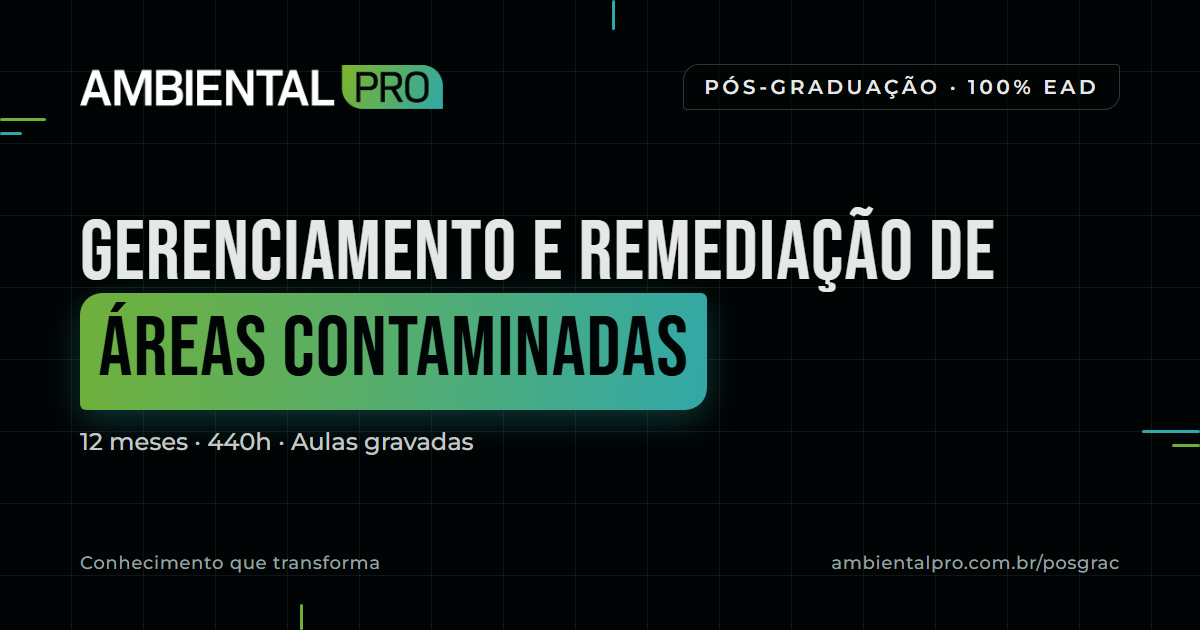
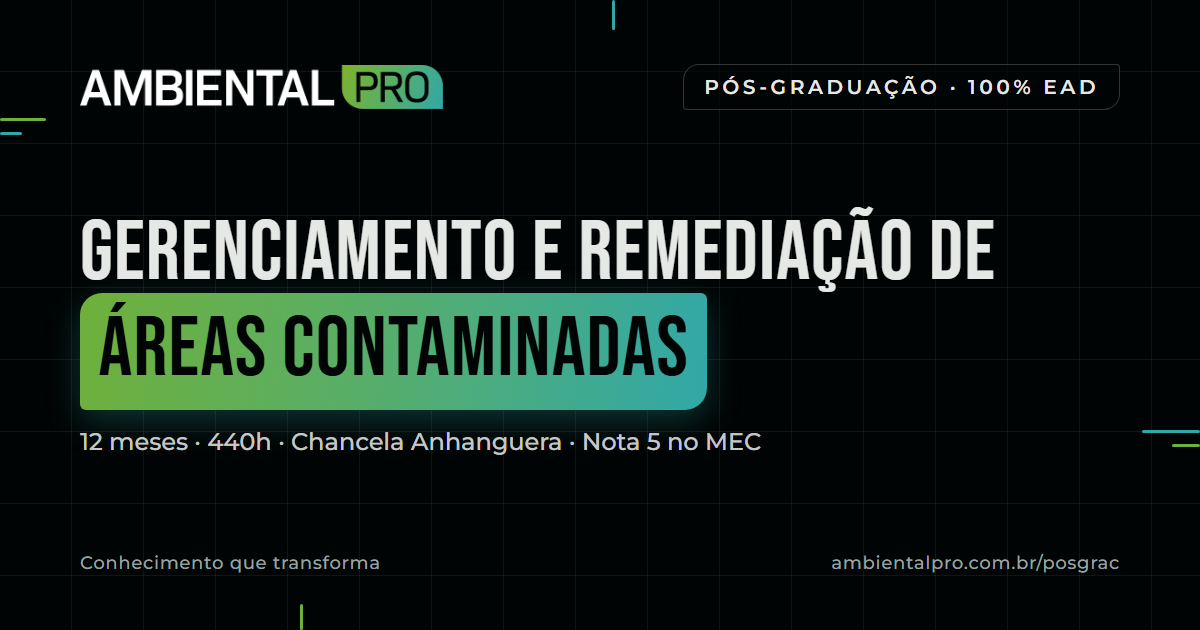
seo: GRAC alinha o texto do diploma com a página (chancela Anhanguera)
Meta description, og:description, twitter:description e JSON-LD passam a dizer 'Diploma com chancela Anhanguera, reconhecido pelo MEC', como o corpo da página. Imagem de compartilhamento inclui a chancela.

Changed region(s): [[0.2467, 0.6635, 0.6475, 0.7238]]

diff --git a/index.html b/index.html
@@ -7,7 +7,7 @@
 
     <!-- SEO Primary -->
     <title>Pós-Graduação em Gerenciamento e Remediação de Áreas Contaminadas | Ambiental Pro</title>
-    <meta name="description" content="Pós-Graduação 100% EAD em Gerenciamento e Remediação de Áreas Contaminadas. Diploma Ambiental Pro reconhecido pelo MEC. Inscreva-se!" />
+    <meta name="description" content="Pós-Graduação 100% EAD em Gerenciamento e Remediação de Áreas Contaminadas. Diploma com chancela Anhanguera, reconhecido pelo MEC. Inscreva-se!" />
     <link rel="canonical" href="https://www.ambientalpro.com.br/posgrac" />
     <meta name="keywords" content="pós-graduação gerenciamento, remediação, áreas contaminadas, Ambiental Pro, EAD, GRAC" />
 
@@ -16,7 +16,7 @@
     <meta property="og:url" content="https://www.ambientalpro.com.br/posgrac" />
     <meta property="og:locale" content="pt_BR" />
     <meta property="og:title" content="Pós-Graduação em Gerenciamento e Remediação de Áreas Contaminadas | Ambiental Pro" />
-    <meta property="og:description" content="Pós-Graduação 100% EAD em Gerenciamento e Remediação de Áreas Contaminadas. Diploma Ambiental Pro reconhecido pelo MEC. Inscreva-se!" />
+    <meta property="og:description" content="Pós-Graduação 100% EAD em Gerenciamento e Remediação de Áreas Contaminadas. Diploma com chancela Anhanguera, reconhecido pelo MEC. Inscreva-se!" />
     <meta property="og:image" content="https://www.ambientalpro.com.br/posgrac/og-image.png" />
     <meta property="og:image:alt" content="Pós-Graduação em Gerenciamento e Remediação de Áreas Contaminadas" />
     <meta property="og:image:width" content="1200" />
@@ -27,7 +27,7 @@
     <!-- Twitter Card -->
     <meta name="twitter:card" content="summary_large_image" />
     <meta name="twitter:title" content="Pós-Graduação em Gerenciamento e Remediação de Áreas Contaminadas | Ambiental Pro" />
-    <meta name="twitter:description" content="Pós-Graduação 100% EAD em Gerenciamento e Remediação de Áreas Contaminadas. Diploma Ambiental Pro reconhecido pelo MEC." />
+    <meta name="twitter:description" content="Pós-Graduação 100% EAD em Gerenciamento e Remediação de Áreas Contaminadas. Diploma com chancela Anhanguera, reconhecido pelo MEC." />
     <meta name="twitter:image" content="https://www.ambientalpro.com.br/posgrac/og-image.png" />
 
     <!-- Fonts -->
@@ -41,7 +41,7 @@
       "@type": "Course",
       "@id": "https://www.ambientalpro.com.br/posgrac#course",
       "name": "Pós-Graduação em Gerenciamento e Remediação de Áreas Contaminadas",
-      "description": "Pós-Graduação 100% EAD em Gerenciamento e Remediação de Áreas Contaminadas. Diploma Ambiental Pro reconhecido pelo MEC. Inscreva-se!",
+      "description": "Pós-Graduação 100% EAD em Gerenciamento e Remediação de Áreas Contaminadas. Diploma com chancela Anhanguera, reconhecido pelo MEC. Inscreva-se!",
       "url": "https://www.ambientalpro.com.br/posgrac",
       "image": "https://www.ambientalpro.com.br/posgrac/og-image.png",
       "inLanguage": "pt-BR",
